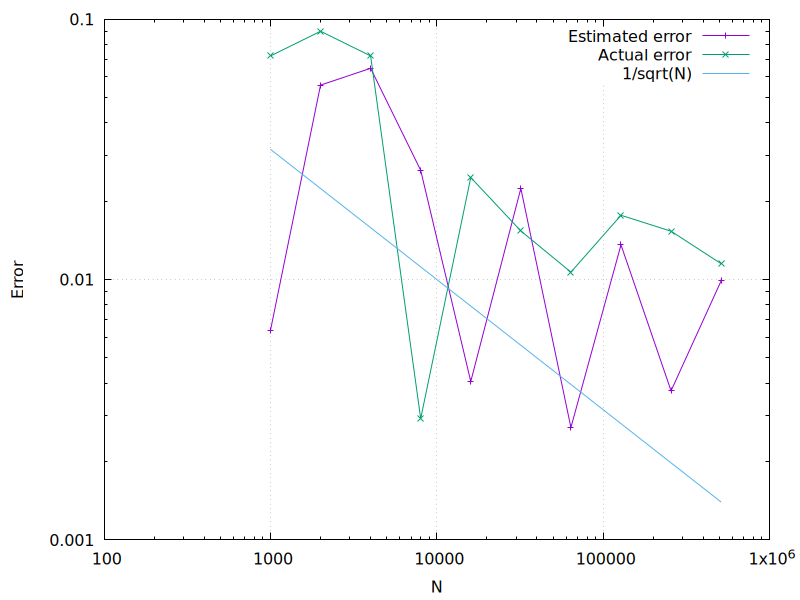
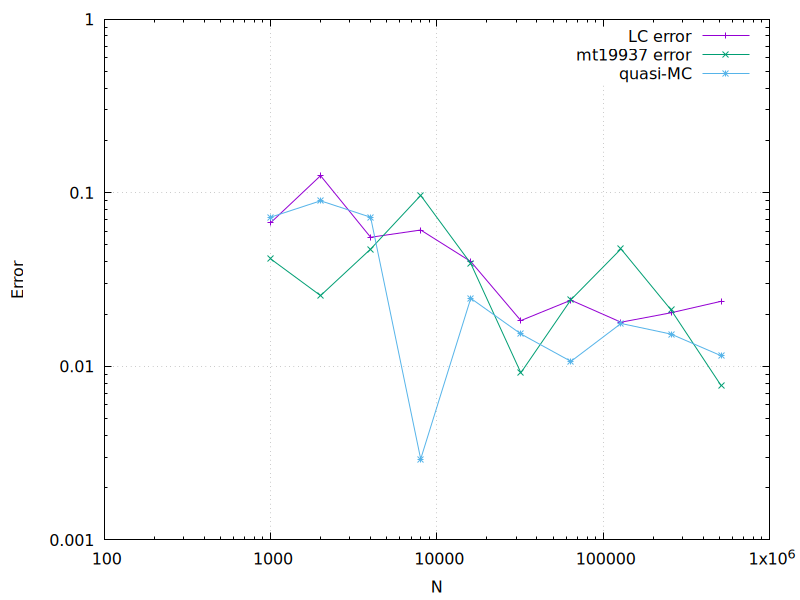
quasi

diff --git a/homeworks/Monte_Carlo/main.cc b/homeworks/Monte_Carlo/main.cc
@@ -2,6 +2,7 @@
 #include <vector>
 #include <cmath>
 #include <fstream>
+#include <random>
 
 using namespace std;
 
@@ -173,6 +174,55 @@ double singular(vector<double> x){
     )/(M_PI*M_PI*M_PI);
 }
 
+mt19937 gen(1234);
+uniform_real_distribution<double> dist(0.0,1.0);
+
+double rnd(){
+    return dist(gen);
+}
+
+template<typename Random>
+pair<double,double> plainmc(
+    double f(vector<double>),
+    vector<double> a,
+    vector<double> b,
+    int N,
+    Random rnd
+){
+    int dim = a.size();
+
+    double V = 1.0;
+
+    for(int i=0;i<dim;i++)
+        V *= (b[i]-a[i]);
+
+    double sum1 = 0;
+    double sum2 = 0;
+
+    vector<double> x(dim);
+
+    for(int k=0;k<N;k++){
+
+        for(int i=0;i<dim;i++)
+            x[i] = a[i] + rnd()*(b[i]-a[i]);
+
+        double fx = f(x);
+
+        sum1 += fx;
+        sum2 += fx*fx;
+    }
+
+    double mean = sum1/N;
+
+    double sigma =
+        sqrt(sum2/N - mean*mean);
+
+    return {
+        mean*V,
+        sigma*V/sqrt(N)
+    };
+}
+
 int main(){
 
     lcg rng(1234);
@@ -248,21 +298,38 @@ int main(){
 
     for(int N=1000; N<=1000000; N*=2){
 
-        auto qmc = quasimc(singular,aq,bq,N);
+        auto lcg_result =
+            plainmc(singular,aq,bq,N,rng);
 
-        double actual_error =
-            fabs(qmc.first - exact);
+        auto mt_result =
+            plainmc(singular,aq,bq,N,rnd);
+
+        auto quasi_result =
+            quasimc(singular,aq,bq,N);
+
+        double lcg_error =
+            fabs(lcg_result.first - exact);
+
+        double mt_error =
+            fabs(mt_result.first - exact);
+
+        double quasi_error =
+            fabs(quasi_result.first - exact);
 
         qout
             << N << " "
-            << qmc.second << " "
-            << actual_error << endl;
+            << lcg_error << " "
+            << mt_error << " "
+            << quasi_error << endl;
 
         cout
             << N << " "
-            << qmc.first << " "
-            << actual_error << endl;
+            << lcg_error << " "
+            << mt_error << " "
+            << quasi_error << endl;
     }
+
+    qout.close();
 
     return 0;
 }
